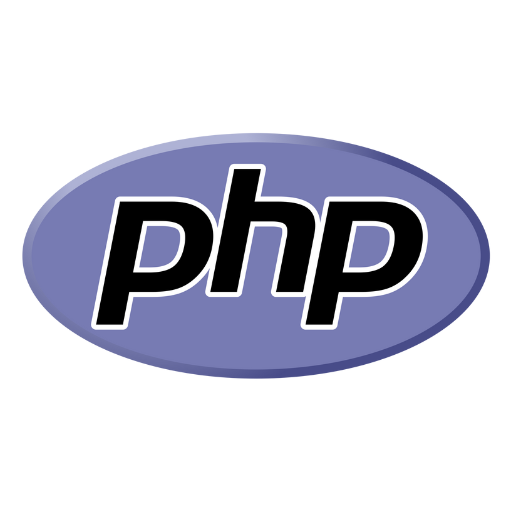
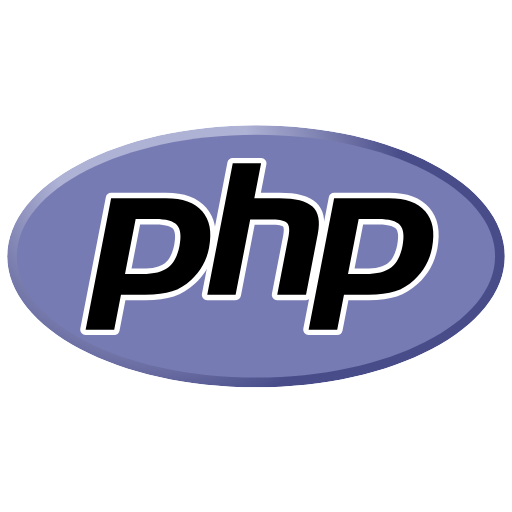
-Update tech-stack and portfolio

Changed region(s): [[0.0, 0.2188, 1.0, 0.7812]]

diff --git a/components/other-tech-stack.html b/components/other-tech-stack.html
@@ -1,37 +1,26 @@
 <h4 class="subtitle is-4 has-text-centered">Čo ďalšie používam?</h4>
 
 <div class="tech-stack">
-    <a class="box m-0 link-img" href="https://www.vuejs.org/" target="_blank" rel="noopener" title="vue3 website">
-        <img src="images/vue.png" alt="vue icon">
+    <a class="box m-0 link-img" href="https://www.vuejs.org/" target="_blank" rel="noopener" title="Vue.js website">
+        <img src="images/vue.png" alt="Vue icon">
     </a>
     
-    <a class="box m-0 link-img" href="https://developer.mozilla.org/en-US/docs/Web/JavaScript" target="_blank" rel="noopener" title="js es6 website">
-        <img src="images/js.png" alt="js es6 icon">
+    <a class="box m-0 link-img" href="https://developer.mozilla.org/en-US/docs/Web/JavaScript" target="_blank" rel="noopener" title="JS ES6 website">
+        <img src="images/js.png" alt="JS ES6 icon">
+    </a>
+    
+    <a class="box m-0 link-img" href="https://www.php.net/" target="_blank" rel="noopener" title="PHP">
+        <img src="images/php.png" alt="PHP icon">
     </a>
 
-    <a class="box m-0 link-img" href="https://www.java.com/" target="_blank" rel="noopener" title="java website">
-        <img src="images/java.png" alt="java icon">
-    </a>  
-
-    <a class="box m-0 link-img" href="https://spring.io/projects/spring-boot" target="_blank" rel="noopener" title="springboot website">
-        <img src="images/springboot.png" alt="springboot icon">
+    <a class="box m-0 link-img" href="https://www.java.com/" target="_blank" rel="noopener" title="Java website">
+        <img src="images/java.png" alt="Java icon">
     </a>
 
-    <a class="box m-0 link-img" href="https://www.w3schools.com/sql/sql_intro.asp" target="_blank" rel="noopener" title="sql website">
-        <img src="images/sql.png" alt="sql icon">
+    <a class="box m-0 link-img" href="https://www.w3schools.com/sql/sql_intro.asp" target="_blank" rel="noopener" title="SQL website">
+        <img src="images/sql.png" alt="SQL icon">
     </a>
 
-    <a class="box m-0 link-img" href="#" target="_blank" rel="noopener" title="sql website">
-        <img src="images/kotlin.png" alt="kotlin icon">
-    </a>
-
-    <!-- <a class="box m-0 link-img" href="https://www.atlassian.com/software/jira" target="_blank" rel="noopener" title="jira website">
-        <img src="images/jira.png" alt="jira icon">
-    </a>
-
-    <a class="box m-0 link-img" href="https://www.atlassian.com/software/confluence" target="_blank" rel="noopener" title="confluence website">
-        <img src="images/confluence.png" alt="confluence icon">
-    </a> -->
 </div>
 
 <div class="about-tech-stack">

diff --git a/components/footer.html b/components/footer.html
@@ -1,7 +1,7 @@
+<!-- <a class="portfolio-link" href="https://baruvet.sk/" target="_blank" rel="noopener noreferrer" title="Webstránka veterinárnej ambulancie">🔗 Otvoriť webstránku Veterinárnej ambulancie</a>
 <a class="portfolio-link" href="https://kilocharlie96.github.io/water-reminder/" target="_blank" rel="noopener noreferrer" title="Otvoriť aplikáciu Water-Reminder">🔗 Otvoriť aplikáciu Water-Reminder</a>
 <a class="portfolio-link" href="https://github.com/kilocharlie96/water-reminder-vue/" target="_blank" rel="noopener noreferrer" title="Otvoriť repozitár Water-Reminder Vue">🔗 Otvoriť repozitár Water-Reminder Vue.js</a>
-<a class="portfolio-link" href="https://baruvet.sk/" target="_blank" rel="noopener noreferrer" title="Webstránka veterinárnej ambulancie">🔗 Otvoriť webstránku Veterinárnej ambulancie</a>
-<a class="portfolio-link" href="https://kilocharlie96.github.io/reminders/" target="_blank" rel="noopener noreferrer" title="Otvoriť Reminders App">🔗 Otvoriť Reminders App</a>
+<a class="portfolio-link" href="https://kilocharlie96.github.io/reminders/" target="_blank" rel="noopener noreferrer" title="Otvoriť Reminders App">🔗 Otvoriť Reminders App</a> -->
 
 
 

diff --git a/components/pre-footer.html b/components/pre-footer.html
@@ -1,5 +1,5 @@
 <p class="box mb-0 is-size-6 thank-you">Keďže si sa dostal/a až sem, môj výtvor Ťa zrejme trochu zaujal a ja mám trochu menej pocit, že s touto stránkou patríme do koša. 
-    <br>Ak máš ešte chvíľu, mrkni na moju rozrobenú mini-apku <a href="https://kilocharlie96.github.io/water-reminder/">Water-Reminder</a>. 
+    <br>Mrkni aj na <a href="https://baruvet.sk/">BaruVet</a> a vyvíjanú aplikáciu <a href="https://kilocharlie96.github.io/water-reminder/">Water Reminder</a>, na ktorej trénujem reaktivitu s využitím HTMX. 
     <br>Ďakujem a vážim si Tvoju návštevu ❤.
 </p>
 <p class="pl-6 pr-6 is-size-5">Ak Ťa môj príbeh naozaj zaujal a myslíš, že máš pre mňa vhodný job,
